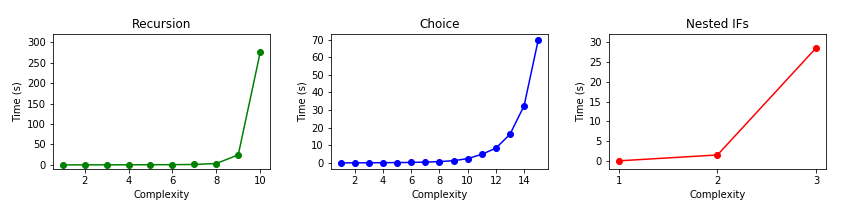
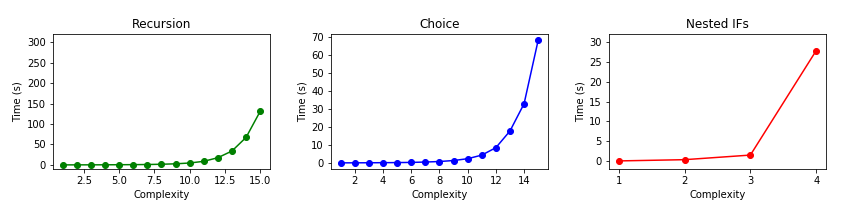
eval

diff --git a/generate.py b/generate.py
@@ -11,38 +11,38 @@ string2="l(x).(if x==4 then k<x>.2 else k<x>.1)"
 string3 = "rec X.(k<1>.(l<1>.X)+(q<1>.1))"
 string4 = "l(x).k<x>."
 
-# counter = 6+(2*(nb_choice-1)) 
+counter = 6+(2*(nb_choice-1)) 
 
-# for i in range(nb_choice-1):
-#     string = string + "+ (recX.k<" + str(i+2) + ">.X)"
+for i in range(nb_choice-1):
+    string = string + "+ (recX.k<" + str(i+2) + ">.X)"
 
-# string = string + "+(recX.k<"+ str(nb_choice+1) +">.X)"    
+string = string + "+(recX.k<"+ str(nb_choice+1) +">.X)"    
 
-# print(string)
+print(string)
 
-for i in range(nb_choice):
-    if i == 0 and nb_choice == 1:
-        string2 = "l(x).if x==4 then k<x>.2 else k<x>.1"
-    else:
-        temp = "if x mod 2 == 0 then "
-        counter = 6+(2*(i)) 
-        for x in range(i+1):
-            temp = temp + "if x<" + str(counter) + " then " 
-            counter -= 2
-        temp = temp + "if x>2 then k<x>.2 else k<x>.1"
-        for x in range(i+1):
-            temp = temp + " else k<x>.1"
-        temp = temp+" else k<x>.1"
-        string2 = string2 + " + ("+temp+")"
+if nb_choice == 1:
+  string2 = "l(x).if x==4 then k<x>.2 else k<x>.1"
+else:
+  for i in range(nb_choice-1):
+    temp = "if x mod 2 == 0 then "
+    counter = 6+(2*(i)) 
+    for x in range(i+1):
+        temp = temp + "if x<" + str(counter) + " then " 
+        counter -= 2
+    temp = temp + "if x>2 then k<x>.2 else k<x>.1"
+    for x in range(i+1):
+        temp = temp + " else k<x>.1"
+    temp = temp+" else k<x>.1"
+    string2 = string2 + " + ("+temp+")"
 
 print(string2) 
 
-# for i in range(nb_choice-1):
-#     string3 = string3 + "+ (k<" + str(i+2) + ">.(l<" +str(i+2)+ ">.X)+(q<" +str(i+2)+ ">.1))"
+for i in range(nb_choice-1):
+    string3 = string3 + "+ (k<" + str(i+2) + ">.(l<" +str(i+2)+ ">.X)+(q<" +str(i+2)+ ">.1))"
 
-# string3 = string3 + "+(k<"+ str(nb_choice+1) +">.(l<" +str(nb_choice+1)+ ">.X)+(q<" +str(nb_choice+1)+ ">.1))"    
+string3 = string3 + "+(k<"+ str(nb_choice+1) +">.(l<" +str(nb_choice+1)+ ">.X)+(q<" +str(nb_choice+1)+ ">.1))"    
 
-# print(string3)
+print(string3)
 
 # for i in range(nb_choice-1):
 #     string4 += "k<(x+" +str(i+1)+ ")>."

diff --git a/run.py b/run.py
@@ -60,9 +60,9 @@ def AnalyseMonitors(repetition):
   return time_record
 
 def UpToComplexity(complexity):  
-#   results = pd.DataFrame(columns=['Choice','NestedIFs','Recursion'])
+  results = pd.DataFrame(columns=['Choice','NestedIFs','Recursion'])
   # results = pd.DataFrame(columns=['Choice','Recursion'])
-  results = pd.DataFrame(columns=['NestedfIFs'])
+  # results = pd.DataFrame(columns=['NestedfIFs'])
 
   for i in range (1, complexity+1):
     print("For complexity ", i)
@@ -73,9 +73,9 @@ def UpToComplexity(complexity):
   return results
 
 def ComplexitySteps(complexity):  
-#   results = pd.DataFrame(columns=['Choice','NestedIFs','Recursion'])
+  results = pd.DataFrame(columns=['Choice','NestedIFs','Recursion'])
   # results = pd.DataFrame(columns=['Choice','Recursion'])
-  results = pd.DataFrame(columns=['NestedfIFs'])
+  # results = pd.DataFrame(columns=['NestedfIFs'])
 
   for i in complexity:
     print("For complexity ", i)
@@ -88,7 +88,7 @@ def ComplexitySteps(complexity):
 # def Plot(df):
 
 
-results = UpToComplexity(4)
+results = UpToComplexity(15)
 # results = ComplexitySteps([1,5,10])
 print(results)
 results.to_csv("RunningTimes.csv")
